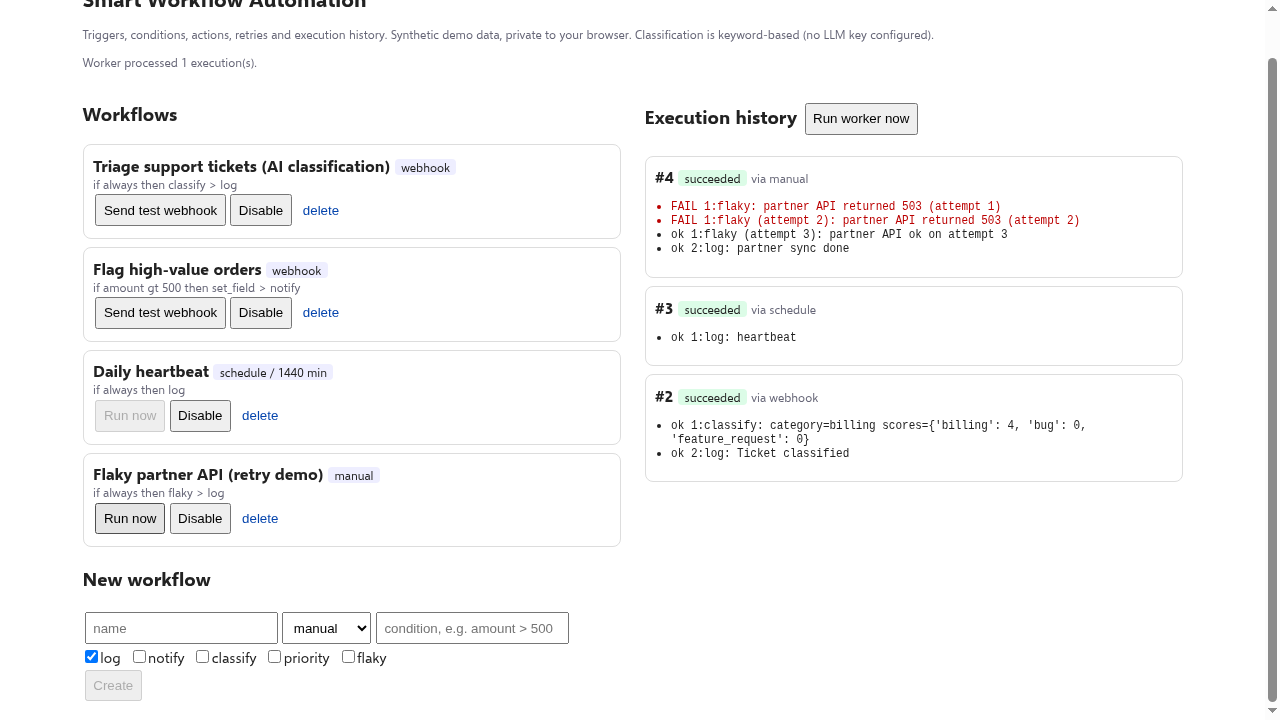
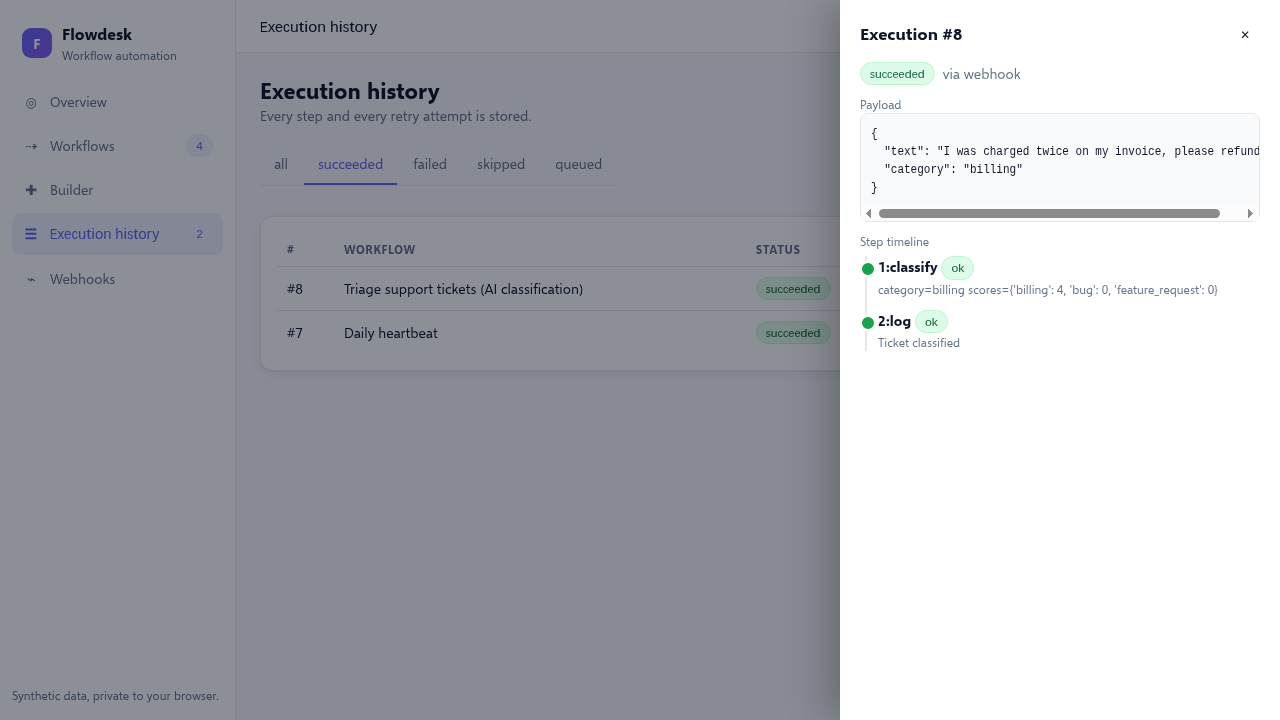
docs: update README and screenshots for the v3 UI

diff --git a/README.md b/README.md
@@ -5,7 +5,10 @@ Define workflows with a trigger (webhook, schedule, manual), conditions, and act
 **Live demo (free tier):** https://wf-web-lac.vercel.app  (click "Send test webhook", then look at Execution history)
 API docs: https://wf-api-gamma.vercel.app/docs
 
-![execution history with retries](docs/screenshot-history.png)
+![overview](docs/screenshot-overview.png)
+![execution detail with step timeline](docs/screenshot-history.png)
+
+Pages: Overview, Workflows (editable JSON test payload), Builder (templates, multiple conditions, ordered actions), Execution history (filters, search, step timeline), Webhooks (copy curl).
 
 ## How it works
 ```
